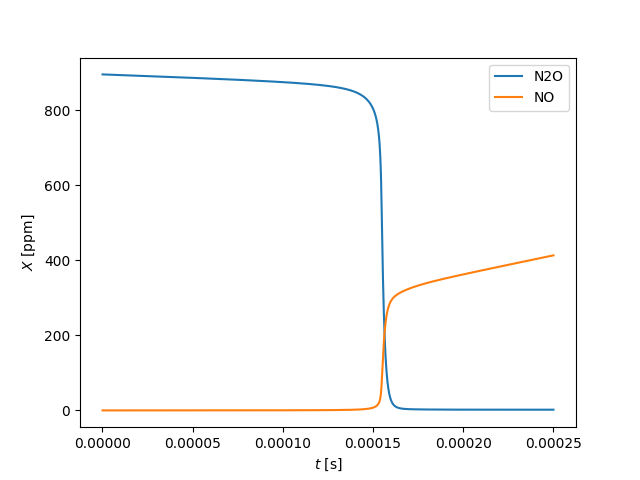
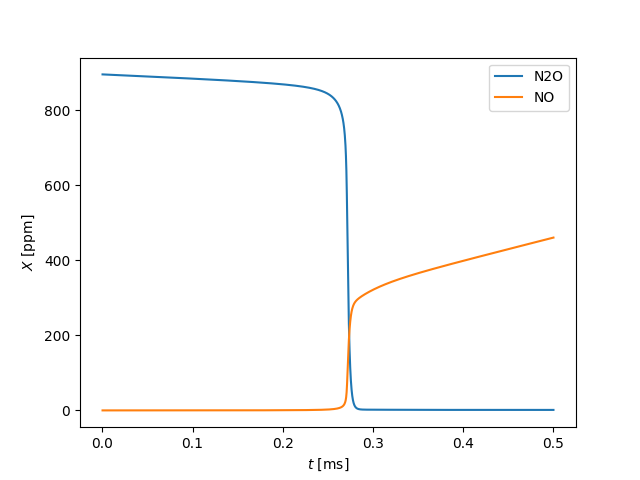
Bilder

diff --git a/n20_reduction_reaction.py b/n20_reduction_reaction.py
@@ -19,14 +19,14 @@ def gas_lmin(syngas):
 
 
 # Combust Properties
-p = 10e5  # [Pa]
+p = 5e5  # [Pa]
 T_0 = 1500  # [K] inlet temperature
 T_norm = 273  # [K]
 x0_n2o = 1000e-6  # N2O in Air  [mol/mol]
 
 lam = 2
 
-length = 1.5e-6  # *approximate* PFR length [m]
+length = 3e-6  # *approximate* PFR length [m]
 u_0 = .006  # inflow velocity [m/s]
 area = 1.e-4  # cross-sectional area [m**2]
 
@@ -80,14 +80,14 @@ plt.figure()
 plt.plot(z1, states1.T)
 plt.xlabel('$z$ [m]')
 plt.ylabel('$T$ [K]')
-plt.legend(loc=0)
+# plt.legend(loc=0)
 plt.show(block=True)
 
 
 plt.figure()
-plt.plot(t1, states1.X[:, gasmix.species_index('N2O')]*1e6, label='N2O')
-plt.plot(t1, states1.X[:, gasmix.species_index('NO')]*1e6, label='NO')
-plt.xlabel('$t$ [s]')
+plt.plot(t1*1e3, states1.X[:, gasmix.species_index('N2O')]*1e6, label='N2O')
+plt.plot(t1*1e3, states1.X[:, gasmix.species_index('NO')]*1e6, label='NO')
+plt.xlabel('$t$ [ms]')
 plt.ylabel('$X$ [ppm]')
 plt.legend(loc=0)
 plt.show(block=True)
